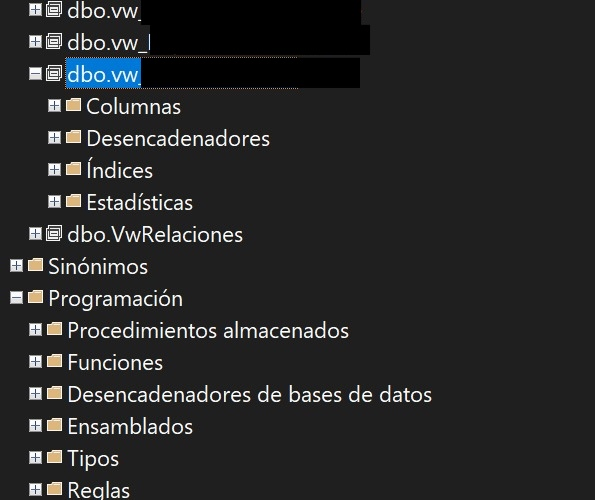
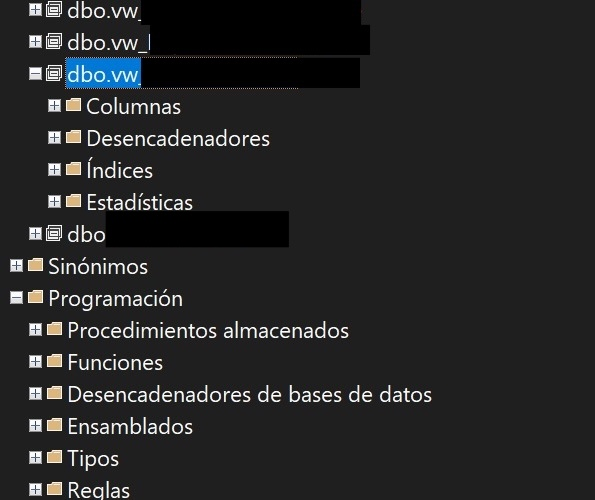
Corrección en formato de texto del README.md

Changed region(s): [[0.1513, 0.42, 0.484, 0.51]]

diff --git a/README.md b/README.md
@@ -2,23 +2,23 @@
 Este proyecto consiste en el desarrollo de una solución integral de Inteligencia de Negocios (BI) para analizar y medir la **eficiencia operativa, la gestión de labor y el cumplimiento de rutas** en una red de quioscos y almacenes de distribución. 
 
 La solución abarca desde la extracción y transformación de datos en la base de datos relacional hasta la visualización interactiva de indicadores clave (KPIs).
----##  Arquitectura y Tecnologías Utilizadas* **Base de Datos:** SQL Server (Transact-SQL)* **Capa de Datos y Lógica:** Vistas optimizadas y Procedimientos Almacenados (Stored Procedures)* **Visualización:** Power BI Desktop* **Modelado de Datos:** Lenguaje DAX y Power Query
----##  Backend: Optimización en SQL Server
+*Arquitectura y Tecnologías Utilizadas* **Base de Datos:** SQL Server (Transact-SQL)* **Capa de Datos y Lógica:** Vistas optimizadas y Procedimientos Almacenados (Stored Procedures)* **Visualización:** Power BI Desktop* **Modelado de Datos:** Lenguaje DAX y Power Query
+ *Backend: Optimización en SQL Server*
 Para alimentar el reporte de manera eficiente sin penalizar el rendimiento del servidor de producción, se implementó una arquitectura basada en dos componentes principales:
 
 1. **Procedimientos Almacenados (`Stored Procedures`):** Diseñados con parámetros dinámicos (filtros de fechas, empresas, plazas y rutas) para segmentar la información transaccional de manera flexible antes de procesarla.
 2. **Vistas (`Views`):** Se crearon vistas personalizadas de consumo exclusivo para Power BI. Esto desacopla el reporte de la estructura interna de las tablas y centraliza la lógica de negocio (como las fechas de lectura decimales y catálogos de componentes).
----## Frontend: Dashboard Interactivo en Power BI
+Frontend: Dashboard Interactivo en Power BI
 El tablero visual está diseñado para la toma de decisiones gerenciales y operativas, permitiendo filtrar la información por **Rutas, Fechas y Rangos de Eficiencia**.
-### Componentes y KPIs Clave del Reporte:* **Análisis de Eficiencia por Quiosco (Treemap):** Distribución visual que identifica rápidamente qué puntos de venta están absorbiendo la mayor cantidad de labor o incidencias.* **Métricas M1, M2 y M3 por Punto de Venta (Gráfico de Barras):** Desglose detallado de los subindicadores operativos para evaluar el desempeño individual de cada unidad.* **Eficiencia Externa vs. Acumulada:** Comparativo porcentual por quiosco para medir el cumplimiento de metas internas frente al entorno operativo externo.* **Filtros Avanzados (Slicers):** Segmentación por períodos de tiempo específicos y códigos de rutas logísticas.
----## Cómo Ejecutar el Proyecto1. **Base de Datos:** Ejecutar los scripts de las vistas y procedimientos almacenados en la base de datos SQL Server correspondiente.2. **Conexión:** Configurar las credenciales de origen de datos en Power BI apuntando al servidor y base de datos locales o de desarrollo.
+*Componentes y KPIs Clave del Reporte:* **Análisis de Eficiencia por Quiosco (Treemap):** Distribución visual que identifica rápidamente qué puntos de venta están absorbiendo la mayor cantidad de labor o incidencias.* **Métricas M1, M2 y M3 por Punto de Venta (Gráfico de Barras):** Desglose detallado de los subindicadores operativos para evaluar el desempeño individual de cada unidad.* **Eficiencia Externa vs. Acumulada:** Comparativo porcentual por quiosco para medir el cumplimiento de metas internas frente al entorno operativo externo.* **Filtros Avanzados (Slicers):** Segmentación por períodos de tiempo específicos y códigos de rutas logísticas.
+Cómo Ejecutar el Proyecto1. **Base de Datos:** Ejecutar los scripts de las vistas y procedimientos almacenados en la base de datos SQL Server correspondiente.2. **Conexión:** Configurar las credenciales de origen de datos en Power BI apuntando al servidor y base de datos locales o de desarrollo.
 3. **Actualización:** El archivo `.pbix` consumirá los datos transformados de la vista de forma automática al presionar "Actualizar".
 
-###Conexión
+**Conexión**
 
 ![Captura de conexión a BD](img/captura1.jpg)
 
-###Estructura de la vista en SQL Server Managment Studio
+**Estructura de la vista en SQL Server Managment Studio**
 
 ![DB](img/captura2.jpg) 
 
@@ -26,7 +26,7 @@ El tablero visual está diseñado para la toma de decisiones gerenciales y opera
 
 ![View](img/captura4.jpg)
 
-###Vista del Dasboard 
+**Vista del Dasboard**
 
 ![Dashboard](img/captura5.jpg) 
 
